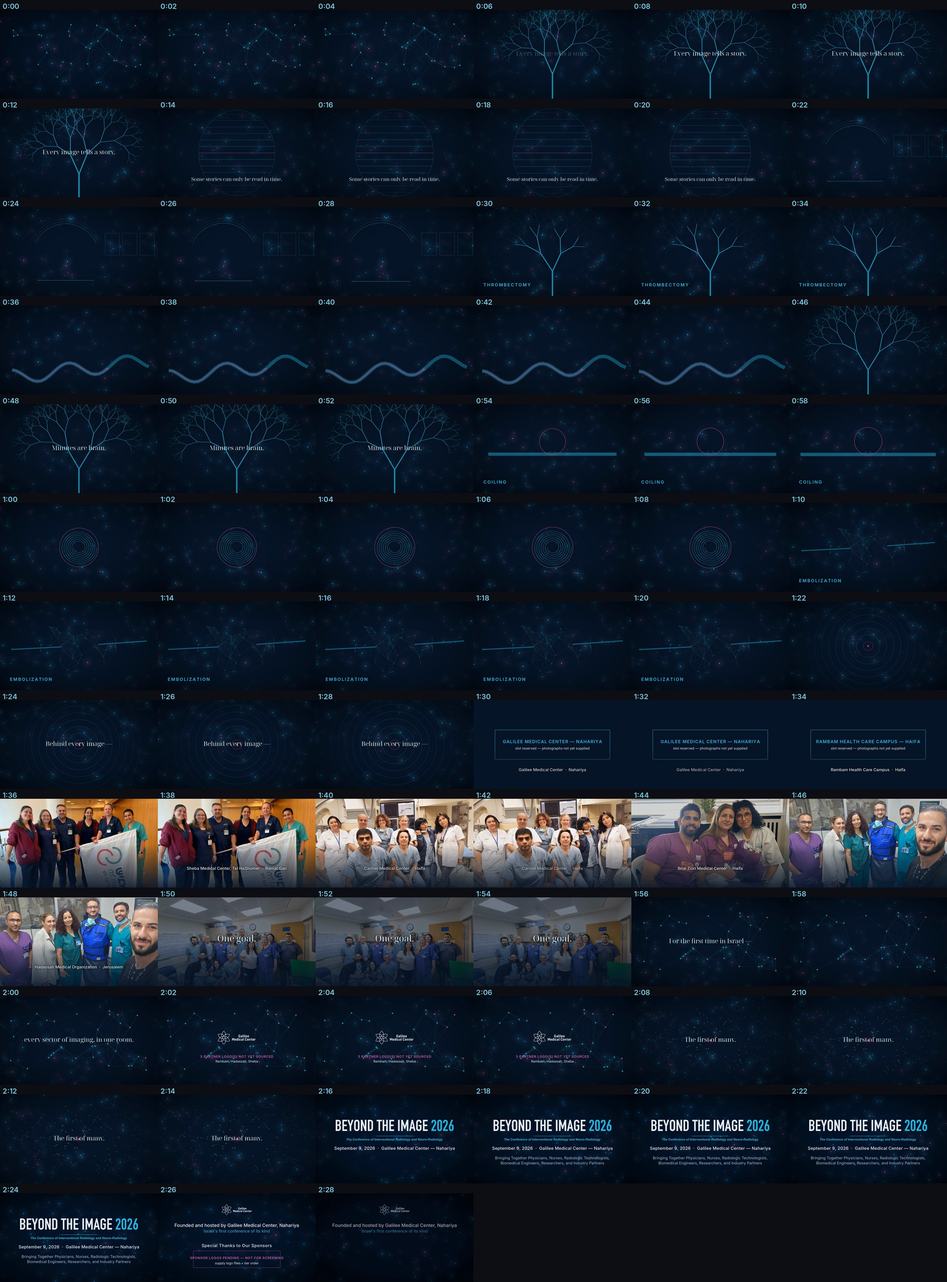
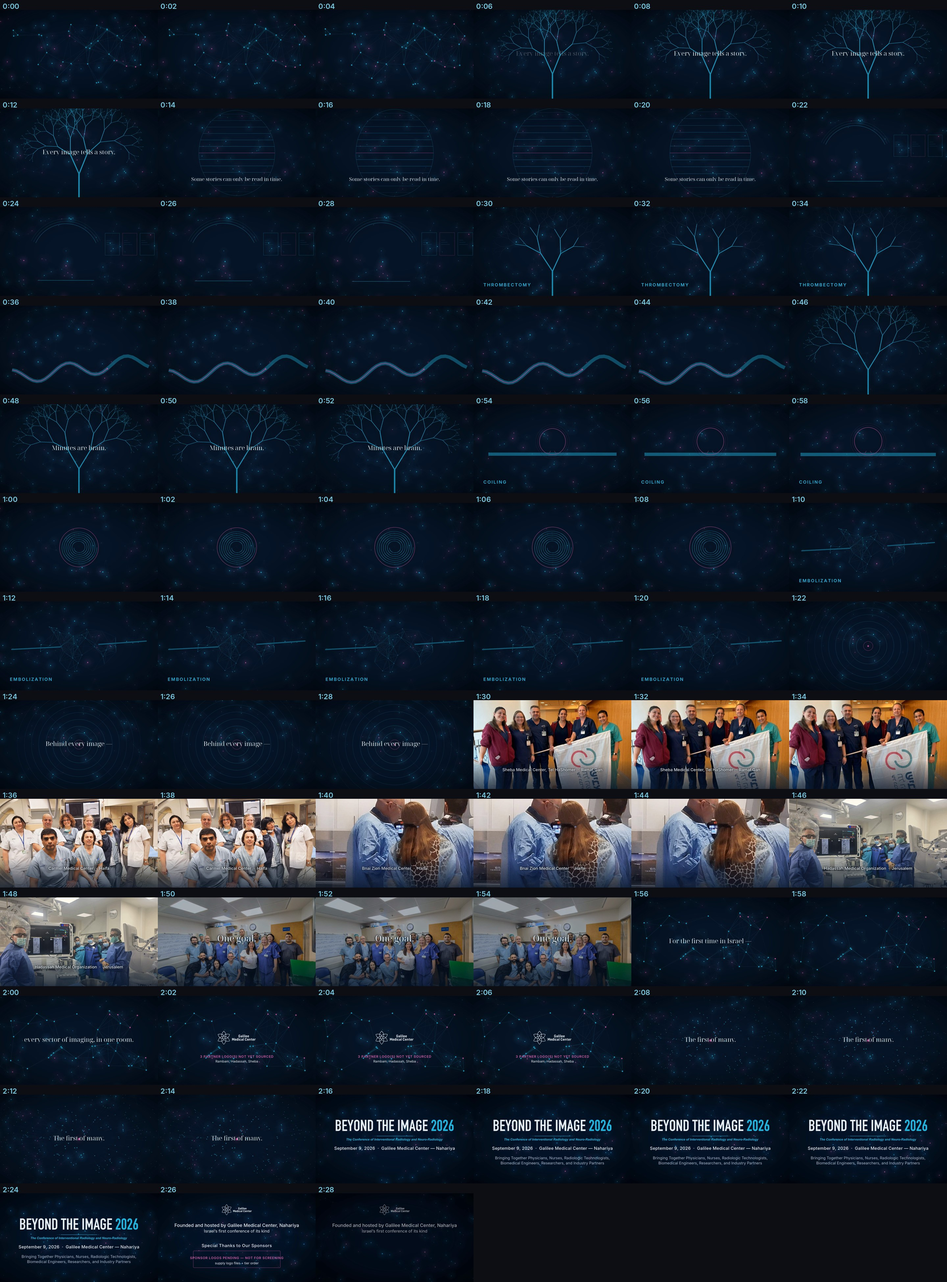
Rebuild after review fixes; document the annotate flag and current state
Claude-Session: https://claude.ai/code/session_017p5tYCJoZxeo71cVTyLicr

Changed region(s): [[0.0, 0.5274, 1.0, 0.7756]]

diff --git a/film/README.md b/film/README.md
@@ -9,7 +9,13 @@ Medical Center lobby, Nahariya, 9 September 2026. Not published online.
 ./build.sh              # rebuild everything (draft resampling, fast)
 ./build.sh final        # delivery quality
 ./build.sh validate     # asset report only, no encode
+
+FILM_ANNOTATE=1 ./build.sh    # production cut: shot IDs, paths, source kinds
 ```
+
+`FILM_ANNOTATE` is off by default. Placeholder cards carry only the brand
+field, the shot's motif and its real caption, so the rough cut can be shown to
+people. Turn it on when you need to see which file each gap is waiting for.
 
 Requires `ffmpeg`, `rsvg-convert`, `poppler-utils`, and Python with
 `pillow` + `numpy`. Fonts: Noto Serif Display, Inter.
@@ -20,8 +26,9 @@ Requires `ffmpeg`, `rsvg-convert`, `poppler-utils`, and Python with
 |---|---|
 | Runtime | **150.00s** exactly (target 150s, ceiling 155s) |
 | Shots from real sources | 3 / 16 — S12, S15, S16 |
-| Placeholders | 13 — correct duration, real on-screen text at real timing |
-| Audio | silent — no licensed track supplied |
+| Placeholders | 13 — brand background, shot motif, real caption at real timing |
+| Audio | original score, `scripts/score.py`, normalised to −16 LUFS |
+| Review | `docs/REVIEW.md` — 4 blockers and 9 majors found, all fixed |
 
 The rough cut is full length and screenable now. Placeholders carry each shot's
 real captions at their real timings, so pacing can be judged before any of the
